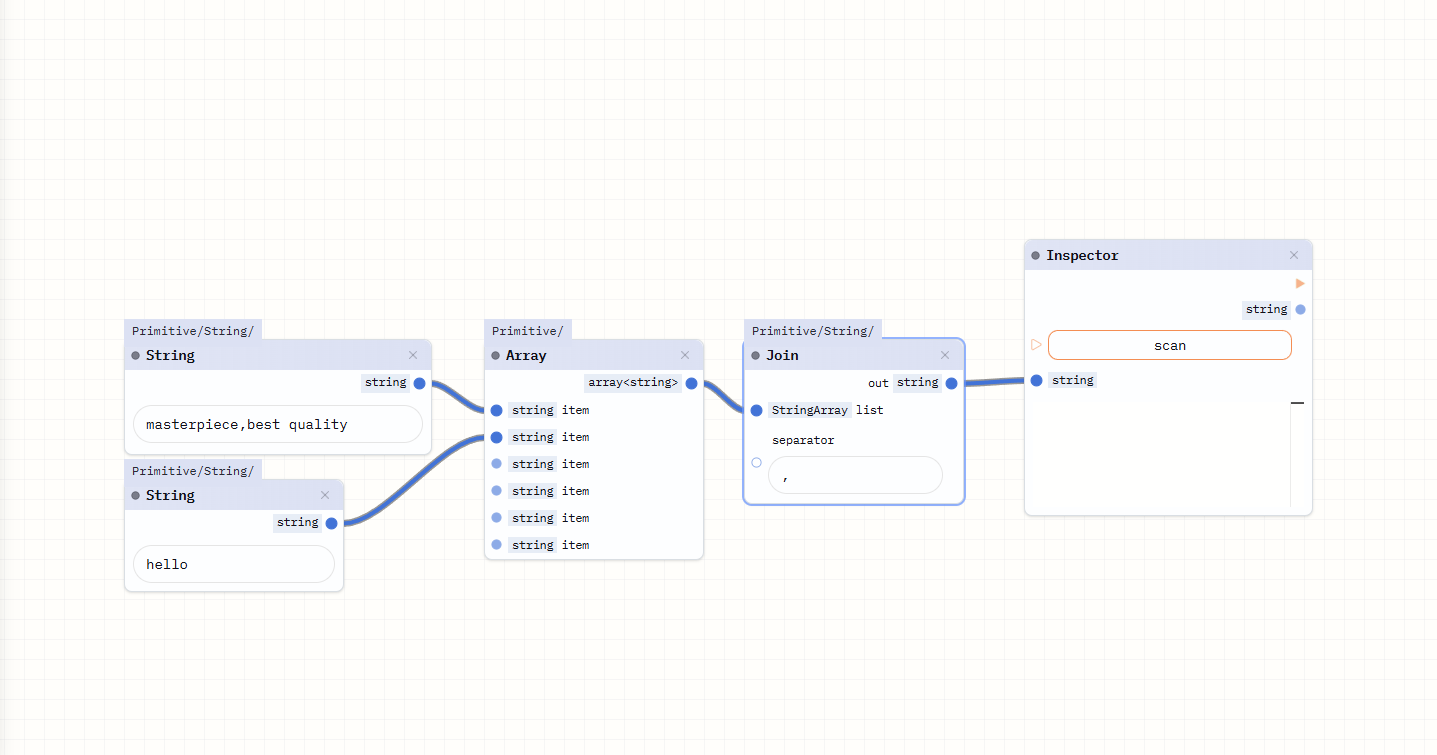
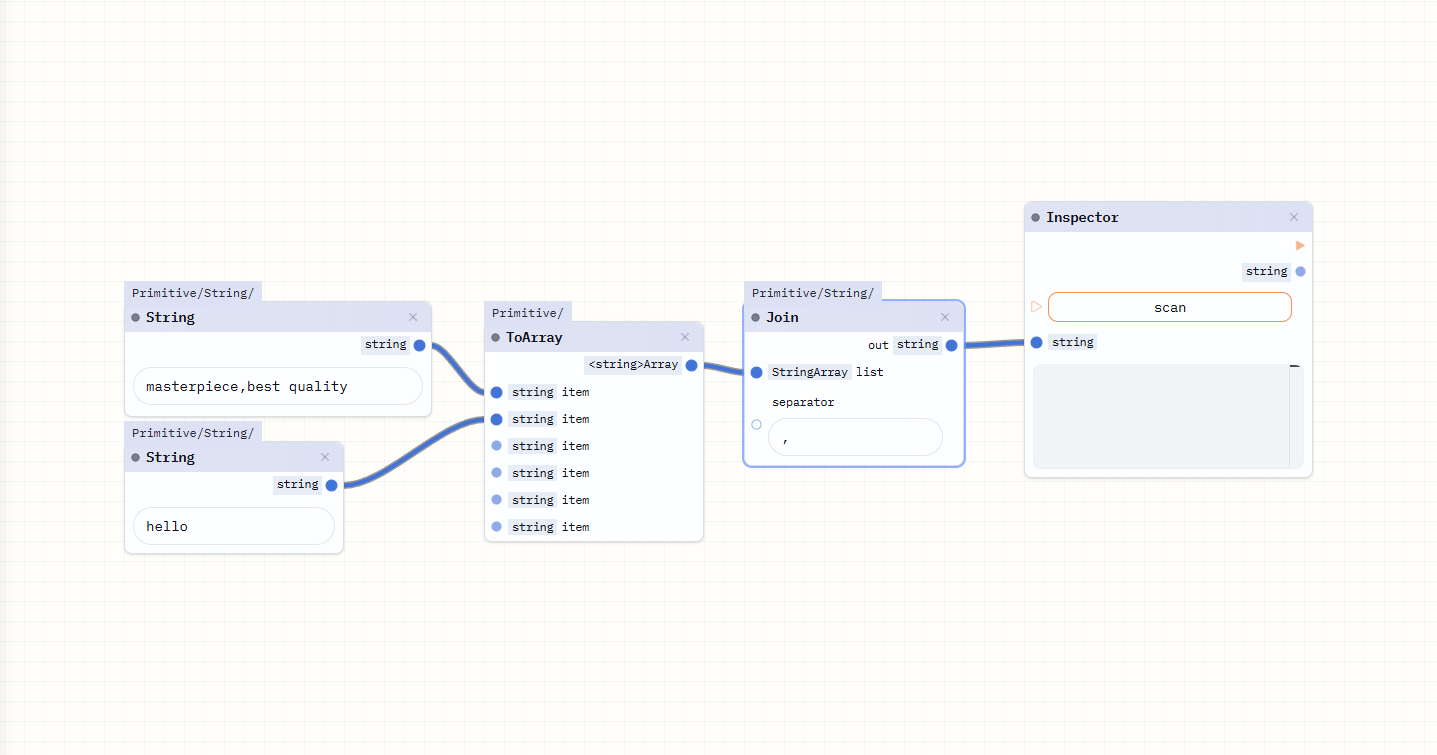
feat: ArrayNode を ToArrayNode にリネームし、関連するインポートとファクトリを更新

diff --git a/src/renderer/nodeEditor/nodes/Node/nodeFactories.ts b/src/renderer/nodeEditor/nodes/Node/nodeFactories.ts
@@ -37,7 +37,6 @@ import { JsonSchemaFormatNode } from "renderer/nodeEditor/nodes/Node/OpenAI/Json
 import { OpenAINode } from "renderer/nodeEditor/nodes/Node/OpenAI/OpenAI";
[1 lines of base64/hex data omitted]
 import { ResponseTextConfigNode } from "renderer/nodeEditor/nodes/Node/OpenAI/ResponseTextConfigNode";
-import { ArrayNode } from "renderer/nodeEditor/nodes/Node/Primitive/ArrayNode";
 import { BoolNode } from "renderer/nodeEditor/nodes/Node/Primitive/BoolNode";
 import { CreateSelectNode } from "renderer/nodeEditor/nodes/Node/Primitive/CreateSelectNode";
 import { CounterLoopNode } from "renderer/nodeEditor/nodes/Node/Primitive/Flow/CounterLoopNode";
@@ -60,6 +59,7 @@ import { ObjectToYAMLStringNode } from "renderer/nodeEditor/nodes/Node/Primitive
 import { StringFormNode } from "renderer/nodeEditor/nodes/Node/Primitive/String/StringFormNode";
 import { StringNode } from "renderer/nodeEditor/nodes/Node/Primitive/String/StringNode";
[1 lines of base64/hex data omitted]
+import { ToArrayNode } from "renderer/nodeEditor/nodes/Node/Primitive/ToArrayNode";
 
 import type {
   FactoryWithMeta,
@@ -178,11 +178,12 @@ export const factoryList = [
   ),
 
   define(
-    ({ area, dataflow }: NodeDeps): ArrayNode => new ArrayNode(area, dataflow),
+    ({ area, dataflow }: NodeDeps): ToArrayNode =>
+      new ToArrayNode(area, dataflow),
     {
       categories: ["Primitive"],
-      op: "Array",
-      label: "Array",
+      op: "ToArray",
+      label: "ToArray",
     }
   ),
   define(

diff --git a/test/renderer/nodeEditor/nodes/Node/Primitive/ToArrayNode.test.tsx b/test/renderer/nodeEditor/nodes/Node/Primitive/ToArrayNode.test.tsx
@@ -1,5 +1,5 @@
 import type { DataflowEngine } from 'renderer/nodeEditor/features/safe-dataflow/dataflowEngin'
-import { ArrayNode } from 'renderer/nodeEditor/nodes/Node/Primitive/ArrayNode'
+import { ToArrayNode } from 'renderer/nodeEditor/nodes/Node/Primitive/ToArrayNode'
 import type { Schemes } from 'renderer/nodeEditor/types'
 import type { AreaPlugin } from 'rete-area-plugin'
 import { expect, test } from 'vitest'
@@ -8,7 +8,7 @@ const area = {} as AreaPlugin<Schemes, any>
 const dataflow = {} as DataflowEngine<Schemes>
 
 test('ListNode.data collects input arrays into a single list', () => {
-  const node = new ArrayNode(area, dataflow)
+  const node = new ToArrayNode(area, dataflow)
   const result = node.data({
     item1: [1, 2],
     item0: ['a'],

diff --git a/src/renderer/nodeEditor/nodes/Node/Primitive/ToArrayNode.tsx b/src/renderer/nodeEditor/nodes/Node/Primitive/ToArrayNode.tsx
@@ -15,7 +15,7 @@ import type {
 import type { AreaPlugin } from 'rete-area-plugin'
 
 // 配列ノード: 6つの入力を配列化し返す
-export class ArrayNode
+export class ToArrayNode
   extends SerializableInputsNode<
     'Array',
     Record<string, TypedSocket>,
@@ -99,7 +99,7 @@ export class ArrayNode
     await this.updateInputsSchema(inputs, schemaName, schema)
     await this.updateOutSchema(
       'out',
-      `array<${schemaName}>`,
+      `<${schemaName}>Array`,
       Type.Array(schema)
     )
     this.schemaName = schemaName
